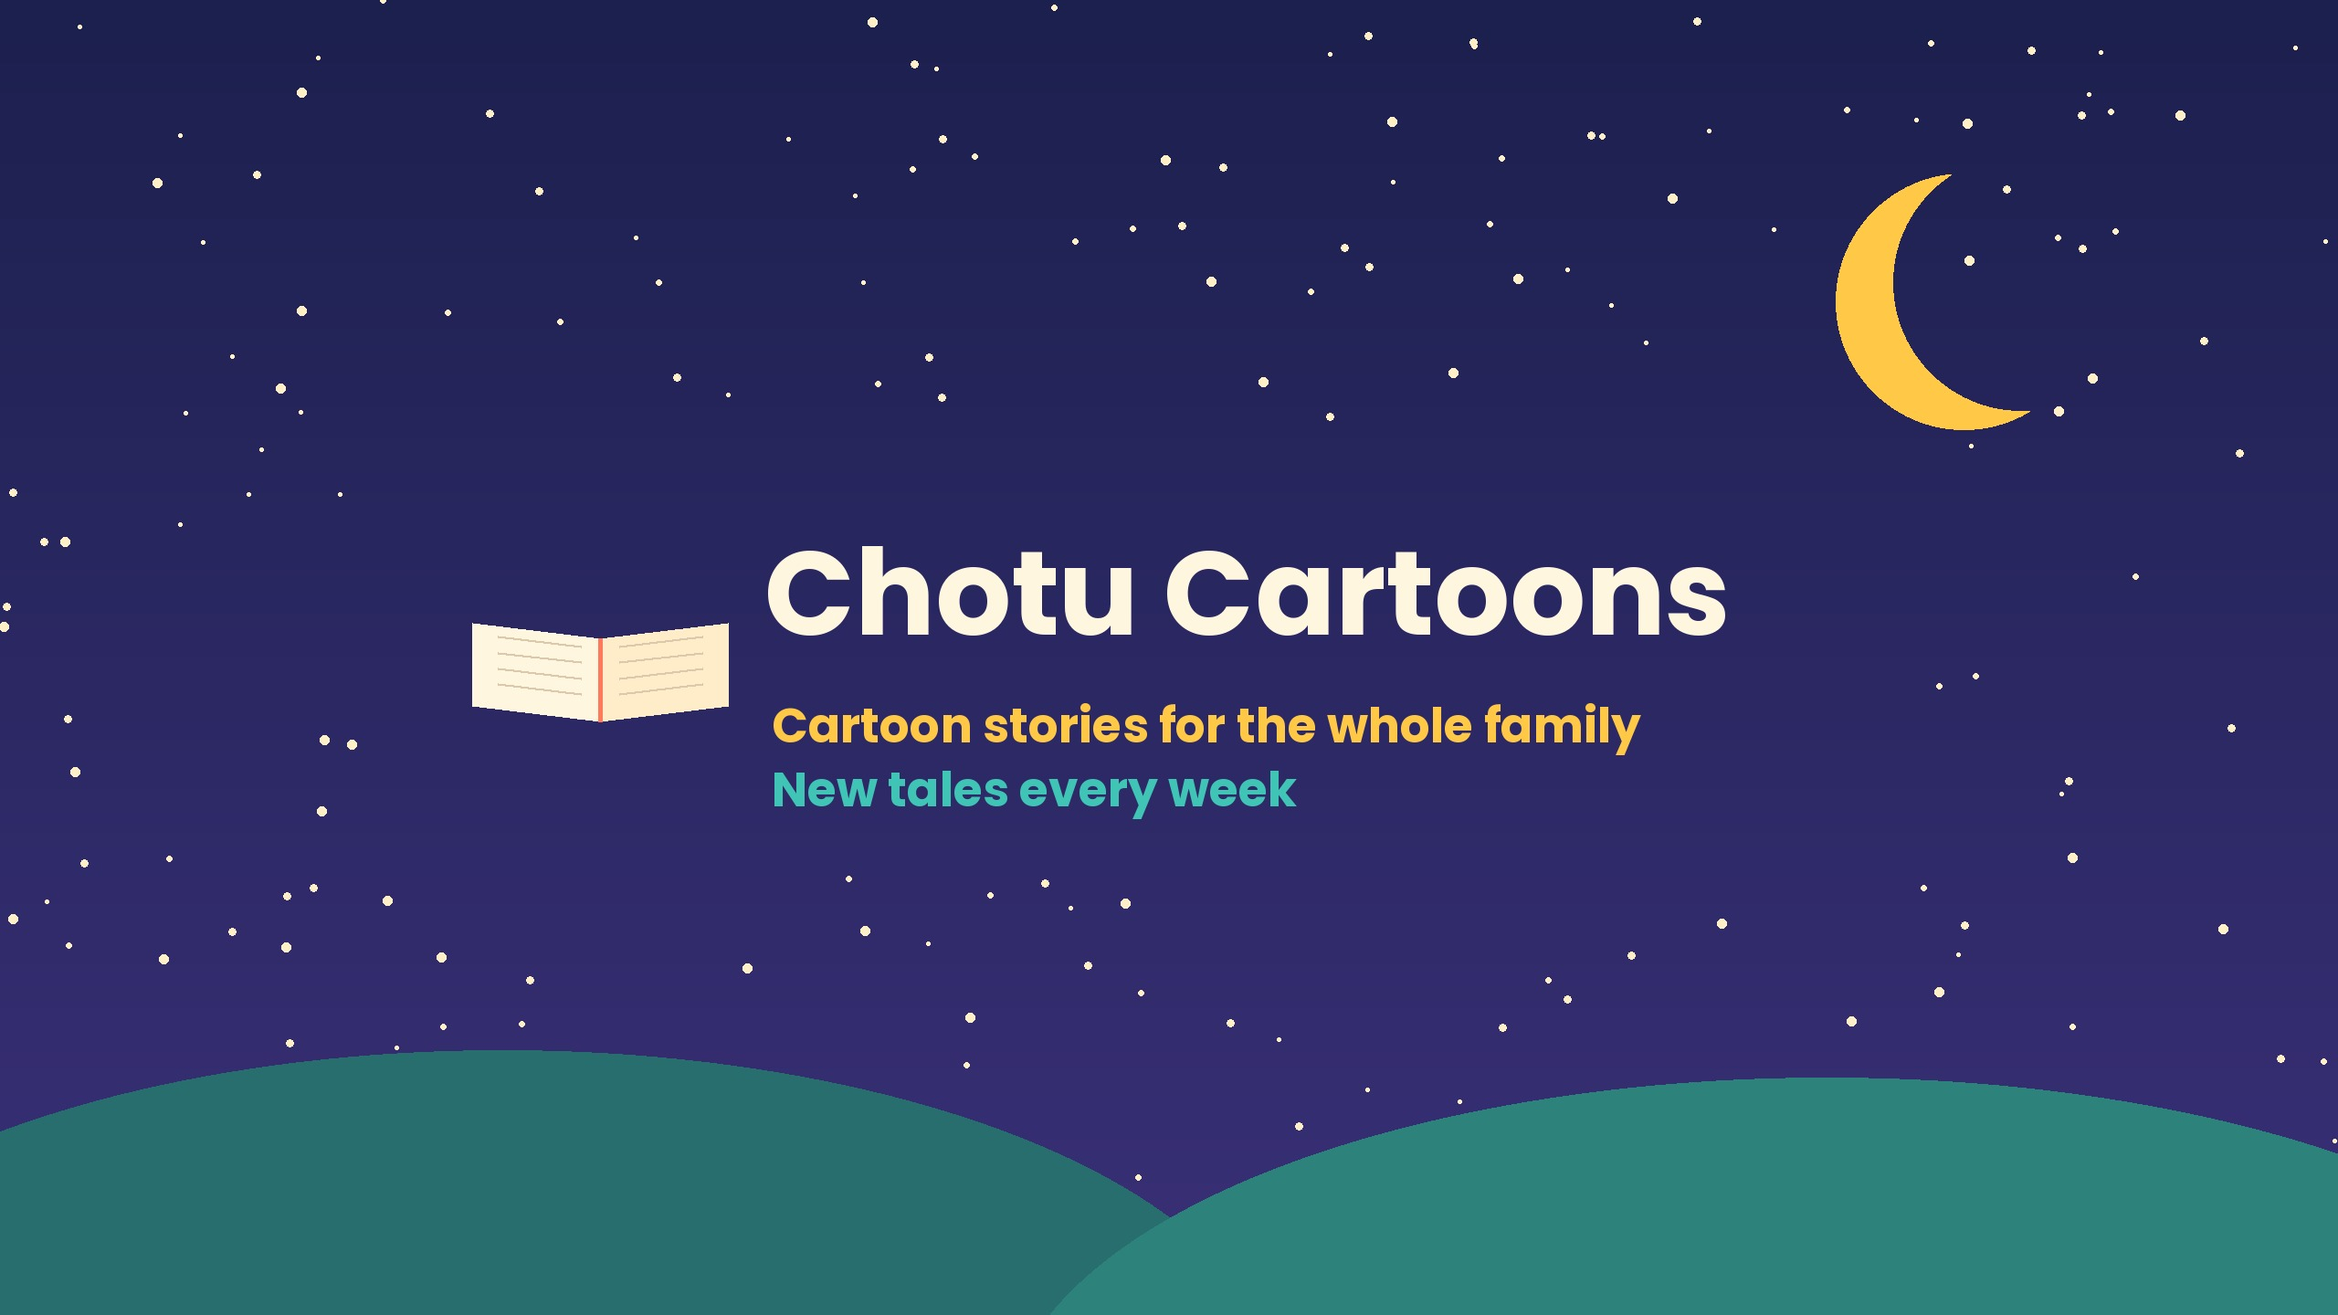
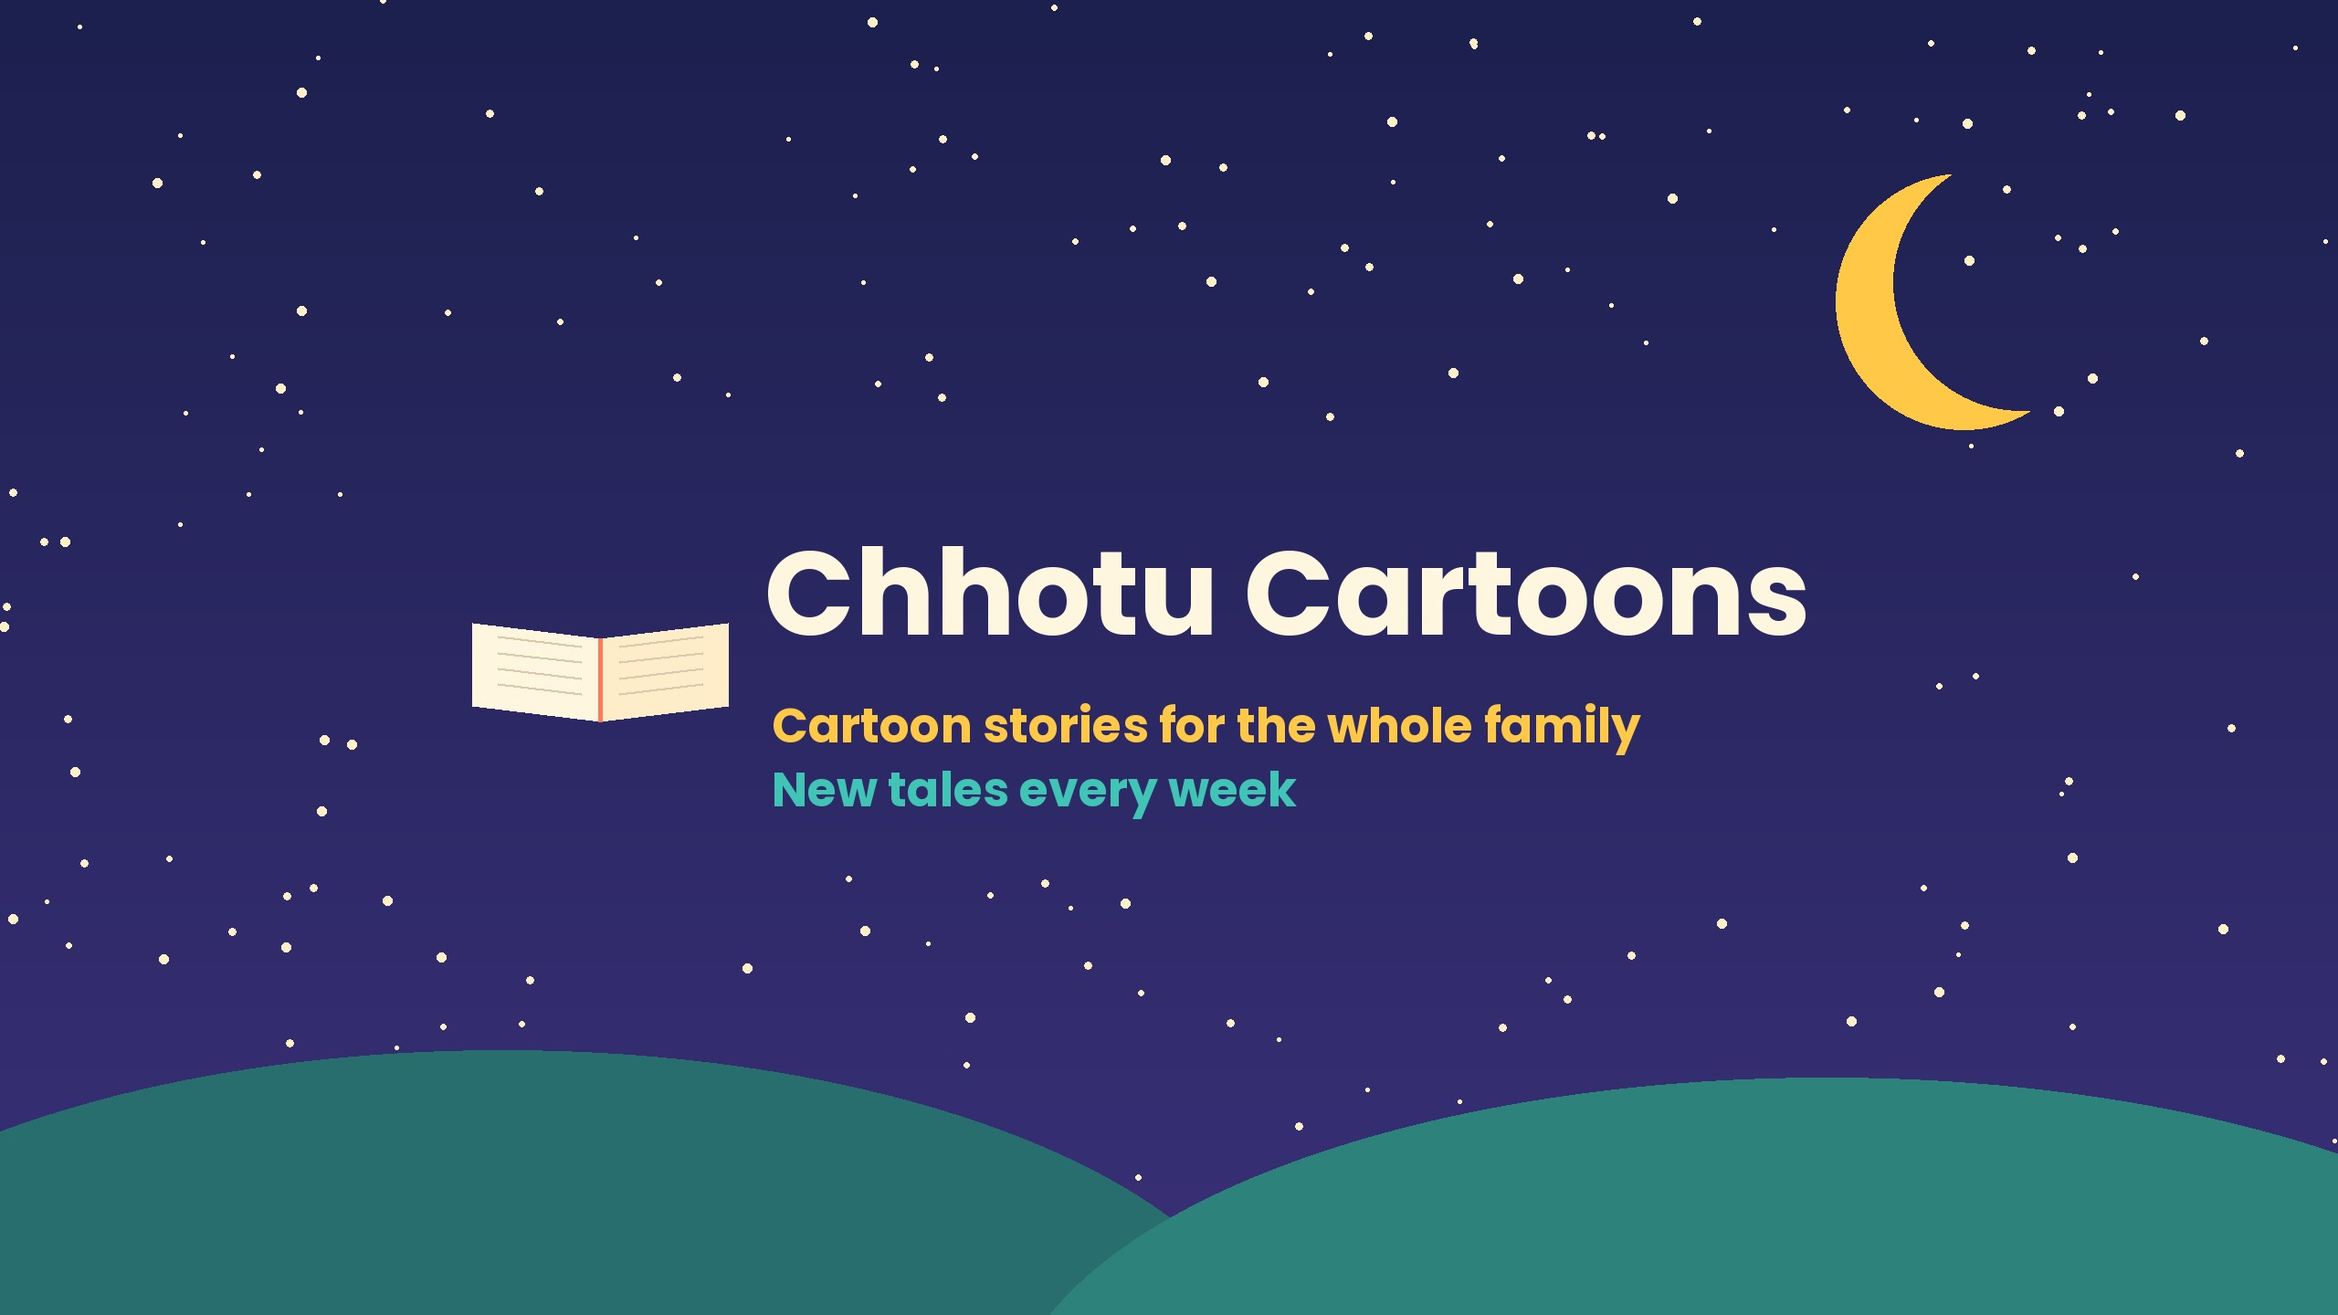
Rename brand to Chhotu Cartoons

Changed region(s): [[0.4062, 0.4062, 0.7812, 0.5]]

diff --git a/privacy.html b/privacy.html
@@ -1,13 +1,13 @@
 <!DOCTYPE html><html lang="en"><head><meta charset="utf-8"><meta name="viewport" content="width=device-width,initial-scale=1">
-<title>Privacy Policy – Chotu Cartoons</title><link rel="icon" href="logo.png"><style>body{font-family:system-ui,-apple-system,Segoe UI,Roboto,sans-serif;max-width:760px;margin:0 auto;padding:24px;line-height:1.6;color:#1c204e;background:#fffaf0}
+<title>Privacy Policy – Chhotu Cartoons</title><link rel="icon" href="logo.png"><style>body{font-family:system-ui,-apple-system,Segoe UI,Roboto,sans-serif;max-width:760px;margin:0 auto;padding:24px;line-height:1.6;color:#1c204e;background:#fffaf0}
 header{display:flex;align-items:center;gap:14px;margin-bottom:12px}header img{width:64px;height:64px;border-radius:14px}
 h1{margin:0;font-size:1.6rem}nav a{margin-right:14px;color:#3a3090}footer{margin-top:40px;font-size:.85rem;color:#666}
 code,.box{background:#fff;border:1px solid #ddd;border-radius:8px;padding:12px;display:block;word-break:break-all;font-family:ui-monospace,monospace}
 button{margin-top:10px;padding:10px 18px;border:0;border-radius:8px;background:#ffc947;font-weight:700;font-size:1rem;cursor:pointer}</style></head><body>
-<header><img src="logo.png" alt="Chotu Cartoons logo"><h1>Chotu Cartoons</h1></header>
+<header><img src="logo.png" alt="Chhotu Cartoons logo"><h1>Chhotu Cartoons</h1></header>
 <nav><a href="index.html">Home</a><a href="privacy.html">Privacy Policy</a><a href="terms.html">Terms</a><a href="data-deletion.html">Data Deletion</a></nav>
 <main><h2>Privacy Policy</h2><p><em>Last updated: November 22, 2026</em></p>
-<p>Chotu Cartoons ("we") runs a small private publishing tool that uploads videos we create to our own YouTube channel, Facebook Page and Instagram account. This policy explains what data the tool uses.</p>
+<p>Chhotu Cartoons ("we") runs a small private publishing tool that uploads videos we create to our own YouTube channel, Facebook Page and Instagram account. This policy explains what data the tool uses.</p>
 <h3>What we access</h3><ul>
 <li><b>YouTube (Google):</b> with our own permission, the tool uses the YouTube Data API scope <code style="display:inline;padding:2px 6px">youtube.upload</code> only to upload videos and thumbnails to our channel.</li>
 <li><b>Facebook and Instagram (Meta):</b> the tool uses a Page access token to publish videos and Reels to our own Page and linked Instagram account.</li></ul>
@@ -17,4 +17,4 @@ button{margin-top:10px;padding:10px 18px;border:0;border-radius:8px;background:#
 <h3>Google API Services</h3><p>Our use of information received from Google APIs adheres to the <a href="https://developers.google.com/terms/api-services-user-data-policy">Google API Services User Data Policy</a>, including the Limited Use requirements. YouTube API use is also subject to the <a href="https://www.youtube.com/t/terms">YouTube Terms of Service</a> and the <a href="https://policies.google.com/privacy">Google Privacy Policy</a>. You can revoke access at any time at <a href="https://myaccount.google.com/permissions">myaccount.google.com/permissions</a>.</p>
 <h3>Viewers</h3><p>When you watch our videos on YouTube, Facebook or Instagram, those platforms' own privacy policies apply. We do not receive personal data about you from the tool.</p>
 <h3>Children</h3><p>Our stories are for families. We do not knowingly collect any personal information from children.</p>
-<h3>Contact</h3><p>Questions? Email <a href="mailto:rintugupta0411@gmail.com">rintugupta0411@gmail.com</a>.</p></main><footer>© 2026 Chotu Cartoons. Contact: <a href="mailto:rintugupta0411@gmail.com">rintugupta0411@gmail.com</a></footer></body></html>
+<h3>Contact</h3><p>Questions? Email <a href="mailto:rintugupta0411@gmail.com">rintugupta0411@gmail.com</a>.</p></main><footer>© 2026 Chhotu Cartoons. Contact: <a href="mailto:rintugupta0411@gmail.com">rintugupta0411@gmail.com</a></footer></body></html>

diff --git a/terms.html b/terms.html
@@ -1,16 +1,16 @@
 <!DOCTYPE html><html lang="en"><head><meta charset="utf-8"><meta name="viewport" content="width=device-width,initial-scale=1">
-<title>Terms of Service – Chotu Cartoons</title><link rel="icon" href="logo.png"><style>body{font-family:system-ui,-apple-system,Segoe UI,Roboto,sans-serif;max-width:760px;margin:0 auto;padding:24px;line-height:1.6;color:#1c204e;background:#fffaf0}
+<title>Terms of Service – Chhotu Cartoons</title><link rel="icon" href="logo.png"><style>body{font-family:system-ui,-apple-system,Segoe UI,Roboto,sans-serif;max-width:760px;margin:0 auto;padding:24px;line-height:1.6;color:#1c204e;background:#fffaf0}
 header{display:flex;align-items:center;gap:14px;margin-bottom:12px}header img{width:64px;height:64px;border-radius:14px}
 h1{margin:0;font-size:1.6rem}nav a{margin-right:14px;color:#3a3090}footer{margin-top:40px;font-size:.85rem;color:#666}
 code,.box{background:#fff;border:1px solid #ddd;border-radius:8px;padding:12px;display:block;word-break:break-all;font-family:ui-monospace,monospace}
 button{margin-top:10px;padding:10px 18px;border:0;border-radius:8px;background:#ffc947;font-weight:700;font-size:1rem;cursor:pointer}</style></head><body>
-<header><img src="logo.png" alt="Chotu Cartoons logo"><h1>Chotu Cartoons</h1></header>
+<header><img src="logo.png" alt="Chhotu Cartoons logo"><h1>Chhotu Cartoons</h1></header>
 <nav><a href="index.html">Home</a><a href="privacy.html">Privacy Policy</a><a href="terms.html">Terms</a><a href="data-deletion.html">Data Deletion</a></nav>
 <main><h2>Terms of Service</h2><p><em>Last updated: November 22, 2026</em></p>
-<p>By using this website or watching Chotu Cartoons content you agree to these terms.</p>
-<h3>Our content</h3><p>All Chotu Cartoons videos, characters, images and text are owned by Chotu Cartoons. You may watch and share links to them. Do not re-upload or sell them without permission.</p>
-<h3>The publishing tool</h3><p>The Chotu Cartoons publishing tool is a private tool used only by the channel owner to post our own videos. It is not offered to the public.</p>
+<p>By using this website or watching Chhotu Cartoons content you agree to these terms.</p>
+<h3>Our content</h3><p>All Chhotu Cartoons videos, characters, images and text are owned by Chhotu Cartoons. You may watch and share links to them. Do not re-upload or sell them without permission.</p>
+<h3>The publishing tool</h3><p>The Chhotu Cartoons publishing tool is a private tool used only by the channel owner to post our own videos. It is not offered to the public.</p>
 <h3>Platforms</h3><p>Our videos are hosted on YouTube, Facebook and Instagram, and your use of those services is governed by their own terms.</p>
 <h3>No warranty</h3><p>The content is provided "as is" for entertainment. We are not liable for any loss arising from its use.</p>
 <h3>Changes</h3><p>We may update these terms; the date above shows the latest version.</p>
-<h3>Contact</h3><p><a href="mailto:rintugupta0411@gmail.com">rintugupta0411@gmail.com</a></p></main><footer>© 2026 Chotu Cartoons. Contact: <a href="mailto:rintugupta0411@gmail.com">rintugupta0411@gmail.com</a></footer></body></html>
+<h3>Contact</h3><p><a href="mailto:rintugupta0411@gmail.com">rintugupta0411@gmail.com</a></p></main><footer>© 2026 Chhotu Cartoons. Contact: <a href="mailto:rintugupta0411@gmail.com">rintugupta0411@gmail.com</a></footer></body></html>

diff --git a/index.html b/index.html
@@ -1,12 +1,12 @@
 <!DOCTYPE html><html lang="en"><head><meta charset="utf-8"><meta name="viewport" content="width=device-width,initial-scale=1">
-<title>Home – Chotu Cartoons</title><link rel="icon" href="logo.png"><style>body{font-family:system-ui,-apple-system,Segoe UI,Roboto,sans-serif;max-width:760px;margin:0 auto;padding:24px;line-height:1.6;color:#1c204e;background:#fffaf0}
+<title>Home – Chhotu Cartoons</title><link rel="icon" href="logo.png"><style>body{font-family:system-ui,-apple-system,Segoe UI,Roboto,sans-serif;max-width:760px;margin:0 auto;padding:24px;line-height:1.6;color:#1c204e;background:#fffaf0}
 header{display:flex;align-items:center;gap:14px;margin-bottom:12px}header img{width:64px;height:64px;border-radius:14px}
 h1{margin:0;font-size:1.6rem}nav a{margin-right:14px;color:#3a3090}footer{margin-top:40px;font-size:.85rem;color:#666}
 code,.box{background:#fff;border:1px solid #ddd;border-radius:8px;padding:12px;display:block;word-break:break-all;font-family:ui-monospace,monospace}
 button{margin-top:10px;padding:10px 18px;border:0;border-radius:8px;background:#ffc947;font-weight:700;font-size:1rem;cursor:pointer}</style></head><body>
-<header><img src="logo.png" alt="Chotu Cartoons logo"><h1>Chotu Cartoons</h1></header>
+<header><img src="logo.png" alt="Chhotu Cartoons logo"><h1>Chhotu Cartoons</h1></header>
 <nav><a href="index.html">Home</a><a href="privacy.html">Privacy Policy</a><a href="terms.html">Terms</a><a href="data-deletion.html">Data Deletion</a></nav>
 <main><h2>Cartoon stories for the whole family</h2>
-<p>Chotu Cartoons makes short animated stories with friendly characters and simple lessons about kindness, courage and honesty. New tales every week on YouTube, Facebook and Instagram.</p>
-<p><img src="cover.jpg" alt="Chotu Cartoons banner" style="width:100%;border-radius:12px"></p>
-<p>This site also hosts the privacy policy and terms for the Chotu Cartoons publishing tool, a private app used only by the channel owner to upload our own videos to our own YouTube channel, Facebook Page and Instagram account.</p></main><footer>© 2026 Chotu Cartoons. Contact: <a href="mailto:rintugupta0411@gmail.com">rintugupta0411@gmail.com</a></footer></body></html>
+<p>Chhotu Cartoons makes short animated stories with friendly characters and simple lessons about kindness, courage and honesty. New tales every week on YouTube, Facebook and Instagram.</p>
+<p><img src="cover.jpg" alt="Chhotu Cartoons banner" style="width:100%;border-radius:12px"></p>
+<p>This site also hosts the privacy policy and terms for the Chhotu Cartoons publishing tool, a private app used only by the channel owner to upload our own videos to our own YouTube channel, Facebook Page and Instagram account.</p></main><footer>© 2026 Chhotu Cartoons. Contact: <a href="mailto:rintugupta0411@gmail.com">rintugupta0411@gmail.com</a></footer></body></html>

diff --git a/data-deletion.html b/data-deletion.html
@@ -1,11 +1,11 @@
 <!DOCTYPE html><html lang="en"><head><meta charset="utf-8"><meta name="viewport" content="width=device-width,initial-scale=1">
-<title>Data Deletion – Chotu Cartoons</title><link rel="icon" href="logo.png"><style>body{font-family:system-ui,-apple-system,Segoe UI,Roboto,sans-serif;max-width:760px;margin:0 auto;padding:24px;line-height:1.6;color:#1c204e;background:#fffaf0}
+<title>Data Deletion – Chhotu Cartoons</title><link rel="icon" href="logo.png"><style>body{font-family:system-ui,-apple-system,Segoe UI,Roboto,sans-serif;max-width:760px;margin:0 auto;padding:24px;line-height:1.6;color:#1c204e;background:#fffaf0}
 header{display:flex;align-items:center;gap:14px;margin-bottom:12px}header img{width:64px;height:64px;border-radius:14px}
 h1{margin:0;font-size:1.6rem}nav a{margin-right:14px;color:#3a3090}footer{margin-top:40px;font-size:.85rem;color:#666}
 code,.box{background:#fff;border:1px solid #ddd;border-radius:8px;padding:12px;display:block;word-break:break-all;font-family:ui-monospace,monospace}
 button{margin-top:10px;padding:10px 18px;border:0;border-radius:8px;background:#ffc947;font-weight:700;font-size:1rem;cursor:pointer}</style></head><body>
-<header><img src="logo.png" alt="Chotu Cartoons logo"><h1>Chotu Cartoons</h1></header>
+<header><img src="logo.png" alt="Chhotu Cartoons logo"><h1>Chhotu Cartoons</h1></header>
 <nav><a href="index.html">Home</a><a href="privacy.html">Privacy Policy</a><a href="terms.html">Terms</a><a href="data-deletion.html">Data Deletion</a></nav>
 <main><h2>Data Deletion Instructions</h2>
-<p>The Chotu Cartoons tool does not store personal data of other users. If you believe we hold any data about you and want it deleted, email <a href="mailto:rintugupta0411@gmail.com">rintugupta0411@gmail.com</a> with the subject "Data deletion" and we will delete it within 30 days and confirm by email.</p>
-<p>To remove the app's access to your own Facebook account, go to Facebook Settings → Security and login → Business integrations, and remove the app.</p></main><footer>© 2026 Chotu Cartoons. Contact: <a href="mailto:rintugupta0411@gmail.com">rintugupta0411@gmail.com</a></footer></body></html>
+<p>The Chhotu Cartoons tool does not store personal data of other users. If you believe we hold any data about you and want it deleted, email <a href="mailto:rintugupta0411@gmail.com">rintugupta0411@gmail.com</a> with the subject "Data deletion" and we will delete it within 30 days and confirm by email.</p>
+<p>To remove the app's access to your own Facebook account, go to Facebook Settings → Security and login → Business integrations, and remove the app.</p></main><footer>© 2026 Chhotu Cartoons. Contact: <a href="mailto:rintugupta0411@gmail.com">rintugupta0411@gmail.com</a></footer></body></html>

diff --git a/callback.html b/callback.html
@@ -1,15 +1,15 @@
 <!DOCTYPE html><html lang="en"><head><meta charset="utf-8"><meta name="viewport" content="width=device-width,initial-scale=1">
-<title>Sign-in callback – Chotu Cartoons</title><link rel="icon" href="logo.png"><style>body{font-family:system-ui,-apple-system,Segoe UI,Roboto,sans-serif;max-width:760px;margin:0 auto;padding:24px;line-height:1.6;color:#1c204e;background:#fffaf0}
+<title>Sign-in callback – Chhotu Cartoons</title><link rel="icon" href="logo.png"><style>body{font-family:system-ui,-apple-system,Segoe UI,Roboto,sans-serif;max-width:760px;margin:0 auto;padding:24px;line-height:1.6;color:#1c204e;background:#fffaf0}
 header{display:flex;align-items:center;gap:14px;margin-bottom:12px}header img{width:64px;height:64px;border-radius:14px}
 h1{margin:0;font-size:1.6rem}nav a{margin-right:14px;color:#3a3090}footer{margin-top:40px;font-size:.85rem;color:#666}
 code,.box{background:#fff;border:1px solid #ddd;border-radius:8px;padding:12px;display:block;word-break:break-all;font-family:ui-monospace,monospace}
 button{margin-top:10px;padding:10px 18px;border:0;border-radius:8px;background:#ffc947;font-weight:700;font-size:1rem;cursor:pointer}</style></head><body>
-<header><img src="logo.png" alt="Chotu Cartoons logo"><h1>Chotu Cartoons</h1></header>
+<header><img src="logo.png" alt="Chhotu Cartoons logo"><h1>Chhotu Cartoons</h1></header>
 <nav><a href="index.html">Home</a><a href="privacy.html">Privacy Policy</a><a href="terms.html">Terms</a><a href="data-deletion.html">Data Deletion</a></nav>
 <main><h2>Sign-in complete</h2>
 <div id="ok" style="display:none"><p>Copy this code and paste it back in the chat:</p><span class="box" id="code"></span><button onclick="copyIt()">Copy code</button><p id="msg"></p></div>
 <div id="err" style="display:none"><p>Something went wrong:</p><span class="box" id="error"></span></div>
-<div id="none"><p>No code was found on this page.</p></div></main><footer>© 2026 Chotu Cartoons. Contact: <a href="mailto:rintugupta0411@gmail.com">rintugupta0411@gmail.com</a></footer><script>
+<div id="none"><p>No code was found on this page.</p></div></main><footer>© 2026 Chhotu Cartoons. Contact: <a href="mailto:rintugupta0411@gmail.com">rintugupta0411@gmail.com</a></footer><script>
 const p=new URLSearchParams(location.search),c=p.get('code'),e=p.get('error');
 if(c){document.getElementById('none').style.display='none';document.getElementById('ok').style.display='block';document.getElementById('code').textContent=c;}
 else if(e){document.getElementById('none').style.display='none';document.getElementById('err').style.display='block';document.getElementById('error').textContent=e+' '+(p.get('error_description')||'');}
